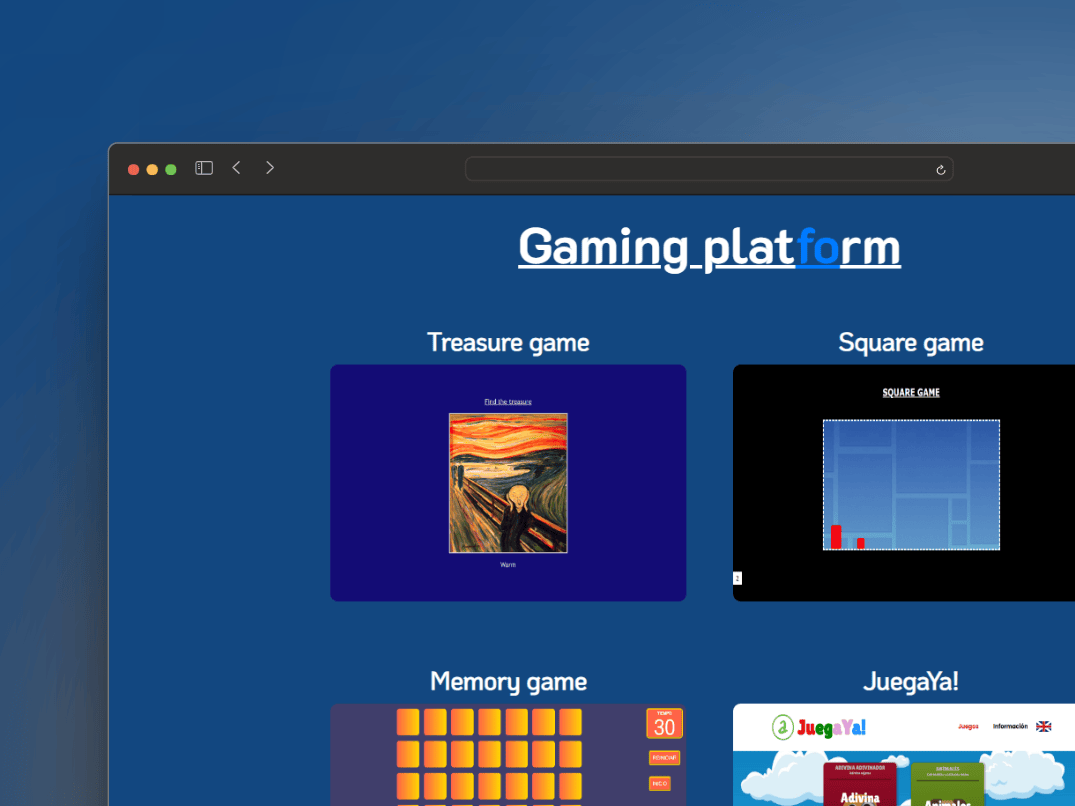
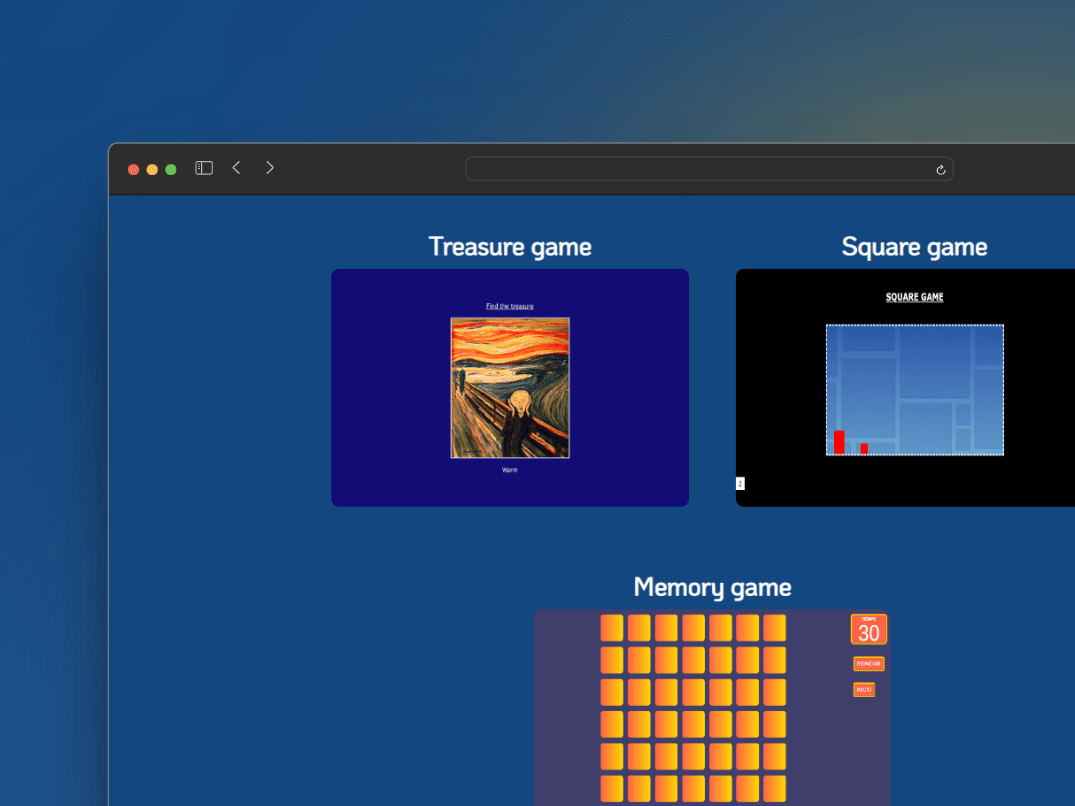
new update

diff --git a/index.html b/index.html
@@ -79,7 +79,7 @@
           <div class="projectsContent">
             <article class="p1">
               <h3>Flit Application</h3>
-              <p>Multiplatform finance mobile app useful for keeping track of your cash (only code)</p>
+              <p>Multiplatform finance mobile app useful for keeping track of your cash (only code). It's a collaborative work</p>
               <div class="stack">
                 <div id="react">
                   <i class="fa-brands fa-react" style="color: #fff; font-size: 1em"></i>
@@ -110,7 +110,7 @@
             </article>
             <article class="p2">
               <h3>CMF Engines</h3>
-              <p>The perfect e-commerce for colectors and car lovers</p>
+              <p>The perfect e-commerce for colectors and car lovers. It's a collaborative work</p>
               <div class="stack">
                 <div id="html">
                   <i class="fa-brands fa-html5" style="color: #fff; font-size: 1em"></i>
@@ -141,7 +141,7 @@
             </article>
             <article class="p3">
               <h3>CMF 3D</h3>
-              <p>An Entrepreneurship landing page. This is an CMF engines provider</p>
+              <p>An Entrepreneurship landing page. This is an CMF engines provider. It's a collaborative work</p>
               <div class="stack">
                 <div id="html">
                   <i class="fa-brands fa-html5" style="color: #fff; font-size: 1em"></i>
@@ -168,7 +168,7 @@
             </article>
             <article class="p4">
               <h3>CMF Engines C.R.U.D</h3>
-              <p>Desktop application that works as C.R.U.D of CMF engines articles (only code)</p>
+              <p>Desktop application that works as C.R.U.D of CMF engines articles (only code). It's a collaborative work</p>
               <div class="stack">
                 <div id="html">
                   <i class="fa-brands fa-java" style="color: #fff; font-size: 1em"></i>
@@ -191,7 +191,7 @@
             </article>
             <article class="p5">
               <h3>Formula 1 API</h3>
-              <p>Formula 1 API consumption, contains rankings, schedule and drivers information</p>
+              <p>Formula 1 API consumption, contains rankings, schedule and drivers information. It's a collaborative work</p>
               <div class="stack">
                 <div id="html">
                   <i class="fa-brands fa-html5" style="color: #fff; font-size: 1em"></i>

diff --git a/gaming.html b/gaming.html
@@ -14,7 +14,6 @@
     href="https://fonts.googleapis.com/css2?family=K2D:wght@700&family=KoHo&family=Montserrat&family=Open+Sans&display=swap"
     rel="stylesheet"
     />
-    <!-- testing -->
     <title>Gaming platform</title>
 </head>
 <body>
@@ -24,26 +23,20 @@
         <section class="gaming">
             <article class="g1">
                 <p class="title">Treasure game</p>
-                <a href="src/proyects/Treasure-game/index.html">
+                <a href="src/proyects/Treasure game/index.html">
                     <img src="src/proyects-images/games/treasure.png" alt="treasure-game" title="treasure-game" class="images">
                 </a>
             </article>
             <article class="g2">
                 <p class="title">Square game</p>
-                <a href="src/proyects/Square-jump/index.html">
+                <a href="src/proyects/Square jump/index.html">
                     <img src="src/proyects-images/games/square.png" alt="square" title="square" class="images">
                 </a>
             </article>
             <article class="g3">
                 <p class="title">Memory game</p>
-                <a href="src/proyects/Memory-game/inicio.html">
+                <a href="src/proyects/Memory game/inicio.html">
                     <img src="src/proyects-images/games/memory-game.png" alt="memory-game" title="memory-game" class="images">
-                </a>
-            </article>
-            <article class="g4">
-                <p class="title">JuegaYa!</p>
-                <a href="http://juegosjardinavellaneda.infinityfreeapp.com/">
-                    <img src="src/proyects-images/games/juegaya.png" alt="juegaya" title="juegaya" class="images">
                 </a>
             </article>
         </section>

diff --git a/styles/gaming.css b/styles/gaming.css
@@ -42,16 +42,14 @@ p{
 
 .g1,
 .g2,
-.g3,
-.g4{
+.g3{
     margin: 20px;
     padding: 10px;
 }
 
 .g1 img:hover,
 .g2 img:hover,
-.g3 img:hover,
-.g4 img:hover{
+.g3 img:hover{
     box-shadow: 0 0.15rem 0.4rem rgba(0,0,0,.3);
     transform: scale(0.97);
 }
